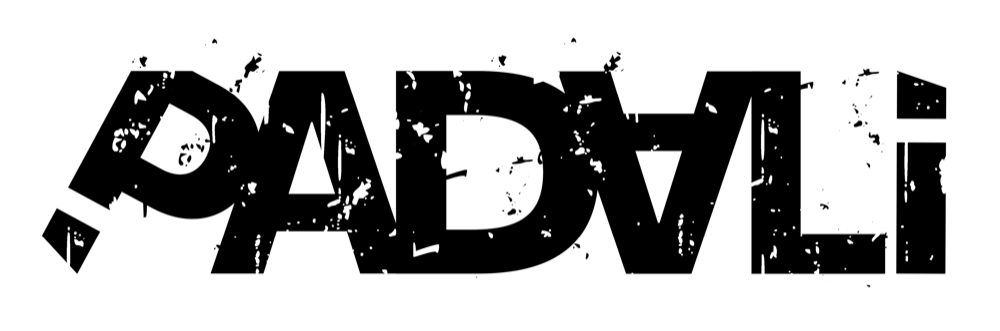
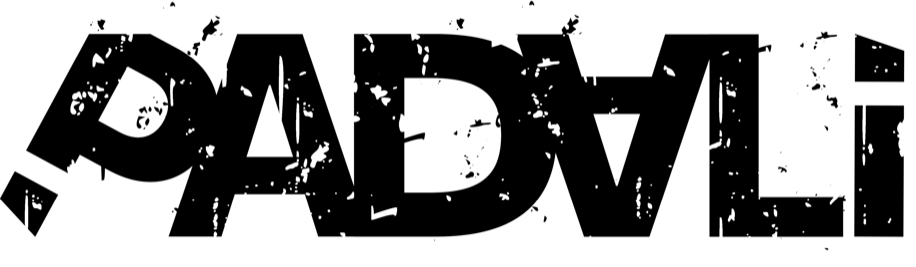
Anton вместо Oswald, вордмарк без прозрачных полей
Логотип выглядел сдвинутым относительно строки под ним, и причина
была в самом файле: по 42 px прозрачного поля по бокам при ширине
1000 и 37/27 сверху-снизу. Видимая «P» начиналась правее, чем «R» в
подписи. Обрезал поля: 1000×331 → 916×267, левые края теперь
совпадают точно. Починилось разом в герое, в шапке и в подвале.

Там же вскрылось, что в разметке у логотипа стояло width=420
height=56 — отношение 7,5 при настоящем 3,03. Эти числа врали вдвое
во всех четырёх местах и резервировали неверную коробку.

Шрифт заголовков — Anton: тяжёлый узкий шрифт концертных афиш
отвечает рваным буквам вордмарка, тогда как узкий нейтральный с ними
не спорил и ни к чему не относился. Начертание у него одно, и вес
задан явными 400: убрать строку нельзя — браузер даёт заголовкам свой
bold и подделывает его, буквы разъезжаются.

Размер заголовков был браузерным по умолчанию, 24 px, вровень с
абзацем: страница читалась сплошной лентой без ступеней. Теперь он
задан и тянется с шириной окна.

Подпись под вордмарком — прописными с разрядкой: обычным начертанием
она ни с чем не спорила и ни к чему не относилась. Мера расширена с
36ch до 50ch, иначе прописные переламывали её надвое; совсем убирать
меру нельзя — длинный слоган растянулся бы в абзац.

diff --git a/public/css/site.css b/public/css/site.css
@@ -17,7 +17,11 @@
   --line-strong: #6A6A6A;
   /* Тот же неон, что в admin.css: сборки нет, менять придётся в обоих. */
   --neon: #D6FF2E;
-  --display: 'Oswald', 'Arial Narrow', sans-serif;
+  /* Anton — тяжёлый узкий шрифт концертных афиш: он отвечает рваным
+     буквам вордмарка, тогда как узкий нейтральный с ними не спорил
+     и ни к чему не относился. Начертание у него одно: просить
+     font-weight нельзя — браузер подделает жир и буквы поплывут. */
+  --display: 'Anton', 'Arial Narrow', sans-serif;
   --sans: 'Archivo', Arial, sans-serif;
   --wrap: 760px;
   --gutter: 24px;
@@ -50,15 +54,25 @@ body {
   -webkit-font-smoothing: antialiased;
 }
 
+/* Размер заголовков был браузерным по умолчанию — 24 px, вровень с
+   абзацем: страница читалась сплошной лентой без ступеней. Теперь
+   он задан и тянется с шириной окна. */
 h1, h2, h3 {
   font-family: var(--display);
-  font-weight: 600;
+  /* Ровно 400, и не потому, что так красивее: у Anton одно
+     начертание, а браузер по умолчанию даёт заголовкам bold и
+     подделывает его — буквы разъезжаются и мылятся. Убрать строку
+     нельзя, можно только задать настоящее значение. */
+  font-weight: 400;
   text-transform: uppercase;
-  letter-spacing: 0.01em;
+  letter-spacing: 0.005em;
   line-height: 1.12;
   margin: 0 0 0.5em;
   color: var(--ink);
 }
+
+h2 { font-size: clamp(1.9rem, 4.2vw, 2.4rem); }
+h3 { font-size: clamp(1.3rem, 2.6vw, 1.5rem); }
 
 p { margin: 0 0 1em; }
 a { color: inherit; }
@@ -240,10 +254,19 @@ ul { list-style: none; margin: 0; padding: 0; }
 
 .skip-link:focus { top: 8px; }
 
+/* Строка под вордмарком — подпись к марке, а не фраза из абзаца:
+   обычным начертанием она ни с чем не спорила и ни к чему не
+   относилась. Прописные с разрядкой привязывают её к логотипу. */
 .hero-caption p {
-  font-size: 1.1rem;
+  font-size: 1rem;
+  font-weight: 500;
+  letter-spacing: 0.08em;
+  text-transform: uppercase;
   color: var(--ink);
-  max-width: 36ch;
+  /* 36ch хватало строчному набору, но прописные с разрядкой шире, и
+     подпись переламывалась надвое. Мера оставлена, просто шире:
+     совсем без неё длинный слоган растянулся бы в абзац. */
+  max-width: 50ch;
   margin: 0;
 }
 
